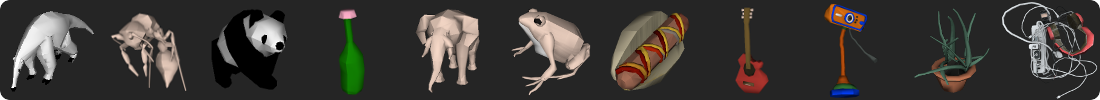
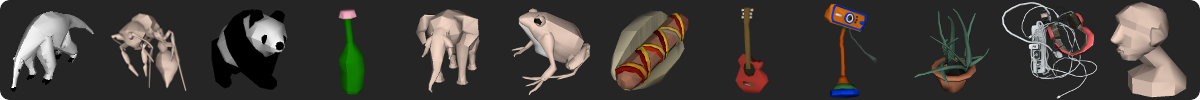
Add human head model

diff --git a/models/head/README.md b/models/head/README.md
@@ -1,0 +1,4 @@
+Modeling Human Head using Dust3D
+----------------------------------------------
+
+<image src="https://raw.githubusercontent.com/huxingyi/free-dust3d-models/master/models/head/modeling-head-dust3d-screenshot.png" width="320" height="192">
